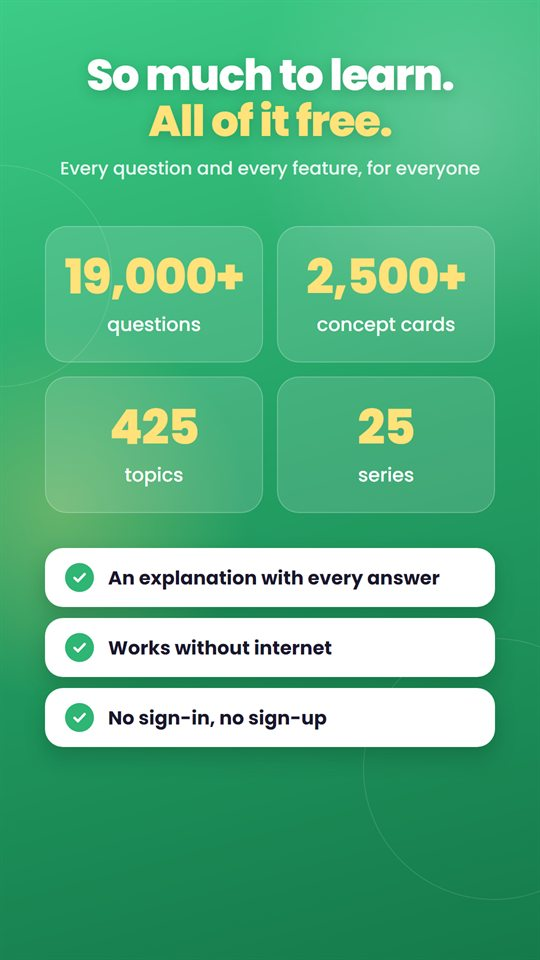
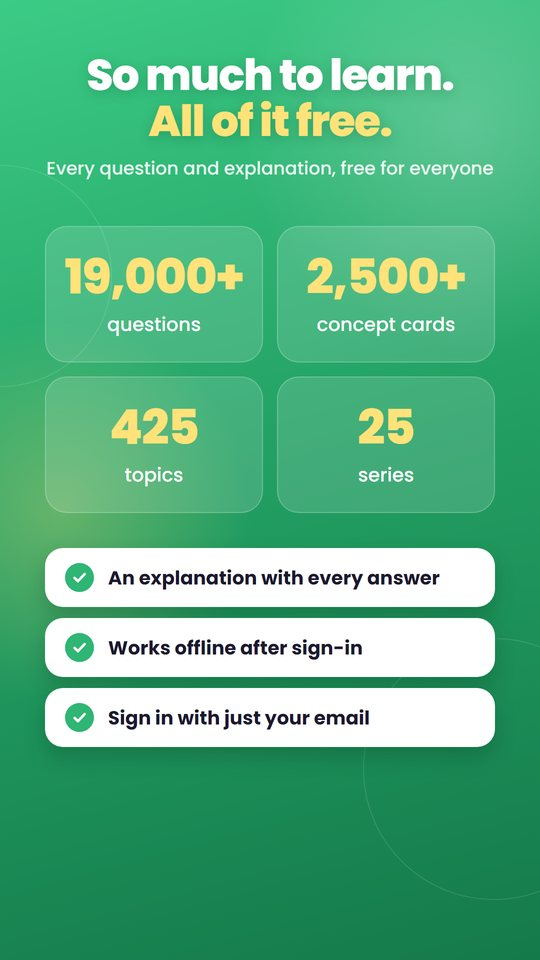
App pages for Irapot and Sky Spark; Quiz Reels page gets the new store shots
- apps/irapot.html: 8 store screenshots, feature graphic, features and Plus from the Play listing.
- apps/sky-spark.html: 7 store screenshots (v2), 500-level feature graphic, closed-test buttons.
- apps/quiz-reels.html: the 12 Nov store screenshots and feature graphic; text now says email
  sign-in, comments and the current Gold perks (it said "no sign-in needed").
- Home: Irapot and Sky Spark cards link to their Details pages.
- site.css: a 7-wide screenshot row.

Changed region(s): [[0.2074, 0.7188, 0.6815, 0.7812], [0.0889, 0.1562, 0.9185, 0.1875], [0.3259, 0.6562, 0.6815, 0.6875]]

diff --git a/apps/quiz-reels.html b/apps/quiz-reels.html
@@ -3,13 +3,13 @@
 <head>
 <meta charset="UTF-8">
 <meta name="viewport" content="width=device-width, initial-scale=1.0, viewport-fit=cover">
-<title>Quiz Reels · NRDDA Tech</title>
-<meta name="description" content="Quiz Reels: learn by swiping. Quick quiz reels with a short explanation for every answer, in Hindi or English, working offline with no sign-in. In closed testing on Google Play.">
+<title>Quiz Reels: Govt Exam &amp; GK · NRDDA Tech</title>
+<meta name="description" content="Quiz Reels: government exam and GK quiz that works like reels. One question per reel with the reason behind every answer, in Hindi or English. In closed testing on Google Play.">
 <meta name="theme-color" content="#ffffff">
 <link rel="canonical" href="https://nrdda.com/apps/quiz-reels.html">
 <link rel="icon" href="../assets/favicon.svg" type="image/svg+xml">
 <meta property="og:type" content="website">
-<meta property="og:title" content="Quiz Reels">
+<meta property="og:title" content="Quiz Reels: Govt Exam &amp; GK">
 <meta property="og:description" content="Swipe. Answer. Learn. One question per reel, with the reason behind every answer.">
 <meta property="og:url" content="https://nrdda.com/apps/quiz-reels.html">
 <meta property="og:image" content="https://nrdda.com/assets/quiz-reels/feature.jpg">
@@ -40,8 +40,8 @@
 <section class="wrap app-hero">
   <div class="hero__copy" style="gap: 22px;">
     <img class="app-hero__icon" src="../assets/apps/quiz-reels.svg" width="104" height="104" alt="Quiz Reels app icon">
-    <h1 class="h1" style="font-size: clamp(38px, 5vw, 64px);">Quiz Reels</h1>
-    <p class="lede">Learn by swiping: quick quiz reels with a short explanation for every answer.</p>
+    <h1 class="h1" style="font-size: clamp(38px, 5vw, 64px);">Quiz Reels: Govt Exam &amp; GK</h1>
+    <p class="lede">Government exam and GK practice that works like reels, with the reason behind every answer.</p>
     <div class="chips" style="padding-top: 0;">
       <span class="chip">Education</span><span class="chip">Android</span><span class="chip">हिंदी &amp; English</span><span class="chip">Works offline</span><span class="chip">Closed testing</span>
     </div>
@@ -59,21 +59,21 @@
     <p class="muted" style="font-size: 15px;">Quiz Reels is in closed testing. Tap <strong>Join the closed test</strong>, accept the invite, then tap <strong>Get it on Google Play</strong>. Not on the list yet? Tap <strong>Ask to join by email</strong> and send your Google Play email; you will be added and can join right after.</p>
     <a href="../privacy/quiz-reels.html" style="font-weight: 600;">Privacy policy</a>
   </div>
-  <img class="art" src="../assets/quiz-reels/feature.jpg" width="1024" height="500" alt="Two phones showing a Hindi quiz reel with the right answer marked and a concept card: Swipe. Answer. Learn.">
+  <img class="art" src="../assets/quiz-reels/feature.jpg" width="1024" height="500" alt="Two phones showing a Hindi quiz reel with the right answer marked and the brain battery: Swipe. Answer. Learn.">
 </section>
 
 <section class="section--soft" aria-label="Screenshots">
   <div class="wrap" style="padding-block: 72px;">
     <div class="shots">
       <div class="shots__row shots__row--8">
-        <img src="../assets/quiz-reels/01.jpg" width="540" height="960" loading="lazy" alt="Swipe. Answer. Learn. One question per reel, with the reason why">
+        <img src="../assets/quiz-reels/01.jpg" width="540" height="960" loading="lazy" alt="Swipe. Answer. Learn. Government exam and GK, one reel at a time">
         <img src="../assets/quiz-reels/02.jpg" width="540" height="960" loading="lazy" alt="19,000+ questions, 2,500+ concept cards, 425 topics, 25 series, all free">
-        <img src="../assets/quiz-reels/03.jpg" width="540" height="960" loading="lazy" alt="Got it wrong? It comes back a few reels later">
-        <img src="../assets/quiz-reels/04.jpg" width="540" height="960" loading="lazy" alt="The idea first, then the questions: short concept cards before every set">
+        <img src="../assets/quiz-reels/03.jpg" width="540" height="960" loading="lazy" alt="Every subject one tap away, or let Reels mix them">
+        <img src="../assets/quiz-reels/04.jpg" width="540" height="960" loading="lazy" alt="Got it wrong? It comes back a few reels later">
         <img src="../assets/quiz-reels/05.jpg" width="540" height="960" loading="lazy" alt="Hindi or English, switch any time in Settings">
-        <img src="../assets/quiz-reels/06.jpg" width="540" height="960" loading="lazy" alt="A full dark mode for late study sessions">
-        <img src="../assets/quiz-reels/07.jpg" width="540" height="960" loading="lazy" alt="Charge your brain daily and watch your week fill up">
-        <img src="../assets/quiz-reels/08.jpg" width="540" height="960" loading="lazy" alt="Playlists for every subject, three levels per topic">
+        <img src="../assets/quiz-reels/06.jpg" width="540" height="960" loading="lazy" alt="Charge your brain daily and keep your streak alive">
+        <img src="../assets/quiz-reels/07.jpg" width="540" height="960" loading="lazy" alt="Playlists for every subject, three levels per topic">
+        <img src="../assets/quiz-reels/08.jpg" width="540" height="960" loading="lazy" alt="Make it yours with Gold: no ads and all 28 characters">
       </div>
     </div>
   </div>
@@ -90,10 +90,12 @@
   <div class="features">
     <div><h3>Swipe like reels</h3><p>Swipe up for the next question, tap your answer and see right away whether you got it.</p></div>
     <div><h3>An explanation every time</h3><p>Every question comes with a short explanation, so you learn the reason and not just the answer.</p></div>
-    <div><h3>Concept cards first</h3><p>Short cards with the idea come before each set, and wrong answers come back a few reels later.</p></div>
+    <div><h3>Pick a subject or mix</h3><p>Choose a subject at the top of Reels, or let the feed mix them. Wrong answers come back a few reels later.</p></div>
     <div><h3>Playlists, easy to hard</h3><p>Go through a subject topic by topic, with three levels in every topic.</p></div>
-    <div><h3>हिंदी or English</h3><p>Use the app in either language and switch any time. Dark mode for late sessions.</p></div>
-    <div><h3>Offline, no sign-in needed</h3><p>Questions are built in and progress is encrypted on your phone. Sign in with your email if you want points on the weekly leaderboard.</p></div>
+    <div><h3>हिंदी or English</h3><p>Made for Hindi medium and English medium students alike. Switch any time, light or dark.</p></div>
+    <div><h3>Comments on every question</h3><p>See what others think, reply and react. Report or block anything unkind.</p></div>
+    <div><h3>A daily habit</h3><p>Charge your brain battery, keep a streak, and climb the leaderboard with your points.</p></div>
+    <div><h3>Sign in with just your email</h3><p>No password, no phone number. Your points and streak come with you to any phone, and reels keep working offline.</p></div>
   </div>
 </section>
 
@@ -102,13 +104,13 @@
     <div>
       <span class="eyebrow">QuizReels Gold</span>
       <h2>Free for everyone, Gold optional</h2>
-      <p>Quiz Reels is free and supported by ads. One purchase, QuizReels Gold, removes them and adds a few extras; no subscription.</p>
+      <p>Every question, explanation and playlist stays free. One purchase, no subscription. Gold bought on a phone also works for the other accounts signed in on that phone.</p>
     </div>
     <ul>
-      <li>Every question and feature stays free</li>
-      <li>A daily streak to keep you going</li>
-      <li>New topics and questions added regularly</li>
-      <li>Gold: no ads, automatic backup, 28 characters and a crown on the leaderboard</li>
+      <li>No ads, anywhere</li>
+      <li>All 28 Gold characters and a crown on the leaderboard</li>
+      <li>Automatic cloud backup of your progress</li>
+      <li>Streak shields without watching an ad</li>
     </ul>
   </div>
 </section>
@@ -116,7 +118,7 @@
 <section style="border-top: 1px solid var(--line);">
   <div class="wrap split" style="padding-block: 56px; gap: 24px 48px;">
     <div><h3 style="font-size: 20px;">Need help?</h3><p style="color: var(--ink-2);">Email <a href="mailto:nrdda.owner@gmail.com?subject=Quiz%20Reels%20support">nrdda.owner@gmail.com</a> with what you did right before it went wrong.</p></div>
-    <div><h3 style="font-size: 20px; margin-bottom: 6px;">Your data</h3><p style="color: var(--ink-2);">No sign-in needed, progress encrypted on your device. Optional email sign-in for points and the leaderboard. Ads by Google AdMob, settings from Firebase. <a href="../privacy/quiz-reels.html">Read the privacy policy</a>.</p></div>
+    <div><h3 style="font-size: 20px; margin-bottom: 6px;">Your data</h3><p style="color: var(--ink-2);">Email sign-in with a one-time code, progress encrypted on your device; points, leaderboard and comments on our own server. Ads by Google AdMob, settings from Firebase. <a href="../privacy/quiz-reels.html">Read the privacy policy</a>.</p></div>
   </div>
 </section>
 

diff --git a/apps/irapot.html b/apps/irapot.html
@@ -1,0 +1,135 @@
+<!DOCTYPE html>
+<html lang="en">
+<head>
+<meta charset="UTF-8">
+<meta name="viewport" content="width=device-width, initial-scale=1.0, viewport-fit=cover">
+<title>Irapot: Expenses &amp; Split Bills · NRDDA Tech</title>
+<meta name="description" content="Irapot: an expense tracker and money manager for your daily spending, with Split for sharing bills with friends, flatmates and family. Budgets, bill reminders and savings goals, in Hindi or English.">
+<meta name="theme-color" content="#ffffff">
+<link rel="canonical" href="https://nrdda.com/apps/irapot.html">
+<link rel="icon" href="../assets/favicon.svg" type="image/svg+xml">
+<meta property="og:type" content="website">
+<meta property="og:title" content="Irapot: Expenses &amp; Split Bills">
+<meta property="og:description" content="Every rupee, in one place. Track daily expenses, set budgets, never miss a bill, split costs with friends.">
+<meta property="og:url" content="https://nrdda.com/apps/irapot.html">
+<meta property="og:image" content="https://nrdda.com/assets/irapot/feature.jpg">
+<link rel="preconnect" href="https://fonts.googleapis.com">
+<link rel="preconnect" href="https://fonts.gstatic.com" crossorigin>
+<link href="https://fonts.googleapis.com/css2?family=Syne:wght@800&family=Bricolage+Grotesque:opsz,wght@12..96,700;12..96,800&family=IBM+Plex+Sans:wght@400;500;600&family=IBM+Plex+Mono:wght@500&display=swap" rel="stylesheet">
+<link rel="stylesheet" href="../assets/site.css">
+</head>
+<body>
+<a class="skip" href="#main">Skip to content</a>
+
+<header class="site-head">
+  <div class="wrap">
+    <a class="wordmark wordmark--sm" href="../index.html" aria-label="NRDDA home">nrdda<span>.</span></a>
+    <nav class="site-nav" aria-label="Main">
+      <a href="../index.html#apps">Apps</a>
+      <a href="../index.html#work">Engineering</a>
+      <a href="../index.html#support">Support</a>
+      <a class="btn btn--ink btn--sm" href="../index.html#contact">Start a project</a>
+    </nav>
+  </div>
+</header>
+
+<main id="main">
+
+<nav class="wrap crumb" aria-label="Breadcrumb"><a href="../index.html#apps">Apps</a> / Irapot</nav>
+
+<section class="wrap app-hero">
+  <div class="hero__copy" style="gap: 22px;">
+    <img class="app-hero__icon" src="../assets/apps/irapot.svg" width="104" height="104" alt="Irapot app icon">
+    <h1 class="h1" style="font-size: clamp(38px, 5vw, 64px);">Irapot: Expenses &amp; Split Bills</h1>
+    <p class="lede">Track daily expenses, set budgets, never miss a bill, and split costs with friends.</p>
+    <div class="chips" style="padding-top: 0;">
+      <span class="chip">Finance</span><span class="chip">Android</span><span class="chip">हिंदी &amp; English</span><span class="chip">Works offline</span><span class="chip">Free, with optional Plus</span>
+    </div>
+    <div class="actions" style="align-items: center; padding-top: 6px;">
+      <a class="btn btn--ink btn--lg" href="https://play.google.com/store/apps/details?id=com.nrdda.irapot">
+        <svg width="20" height="20" viewBox="0 0 24 24" aria-hidden="true"><path d="M5 3.5v17l14-8.5Z" fill="currentColor"></path></svg>
+        Get it on Google Play
+      </a>
+    </div>
+    <p class="muted" style="font-size: 15px;">You write every entry yourself. Irapot never connects to your bank, never reads your SMS and never asks for your card or UPI details.</p>
+    <a href="../privacy/irapot.html" style="font-weight: 600;">Privacy policy</a>
+  </div>
+  <img class="art" src="../assets/irapot/feature.jpg" width="1024" height="500" alt="Irapot the money pot beside three phones showing Home, Insights and a Split trip: Every rupee, in one place.">
+</section>
+
+<section class="section--soft" aria-label="Screenshots">
+  <div class="wrap" style="padding-block: 72px;">
+    <div class="shots">
+      <div class="shots__row shots__row--8">
+        <img src="../assets/irapot/01-home.jpg" width="540" height="960" loading="lazy" alt="Every rupee in one place: your whole month at a glance">
+        <img src="../assets/irapot/02-add.jpg" width="540" height="960" loading="lazy" alt="Write a spend in seconds: amount, category, done">
+        <img src="../assets/irapot/03-insights.jpg" width="540" height="960" loading="lazy" alt="See where your money goes, compared with last month">
+        <img src="../assets/irapot/04-budgets.jpg" width="540" height="960" loading="lazy" alt="Budgets that warn you before you cross the line">
+        <img src="../assets/irapot/05-bills.jpg" width="540" height="960" loading="lazy" alt="Never miss a bill: a reminder before each one">
+        <img src="../assets/irapot/06-split-group.jpg" width="540" height="960" loading="lazy" alt="Split bills with friends and see who pays whom">
+        <img src="../assets/irapot/07-split-ways.jpg" width="540" height="960" loading="lazy" alt="Split it your way: equally, exact, percent or shares">
+        <img src="../assets/irapot/08-language.jpg" width="540" height="960" loading="lazy" alt="The whole app in Hindi or English">
+      </div>
+    </div>
+  </div>
+</section>
+
+<section class="wrap section">
+  <div class="section-head">
+    <div>
+      <span class="eyebrow">What's inside</span>
+      <h2 class="h2" style="font-size: clamp(30px, 3.4vw, 44px);">A money diary for you, and Split for everyone else</h2>
+    </div>
+    <img class="mascot" style="width: clamp(100px, 12vw, 140px);" src="../assets/mascots/irapot.svg" width="460" height="464" alt="Ira the money pot, the Irapot mascot">
+  </div>
+  <div class="features">
+    <div><h3>Daily expenses in seconds</h3><p>Amount, category, account and note on one screen. Cash, bank, card and wallet accounts, each with its own balance.</p></div>
+    <div><h3>Budget planner</h3><p>A budget for the month and for each category, a warning before you cross one, and an early look at this month&rsquo;s pace.</p></div>
+    <div><h3>See where it goes</h3><p>Spending by category compared with last month, your biggest category, and PDF or Excel export.</p></div>
+    <div><h3>Never miss a bill</h3><p>Bills with due dates and a reminder before each one, plus a daily nudge to write the day&rsquo;s spends.</p></div>
+    <div><h3>Split bills with friends</h3><p>Groups for a trip, a flat or the house. Friends join with a link, QR or code; split equally, by exact amounts, shares or percent.</p></div>
+    <div><h3>Save more</h3><p>Savings goals, a weekly challenge and no-spend days, with a streak to keep.</p></div>
+    <div><h3>Private and safe</h3><p>Your diary is encrypted on your phone, with a fingerprint or face lock. Sign in with your email and a one-time code.</p></div>
+    <div><h3>Hindi and English</h3><p>The whole app in Hindi or English, light or dark. Works without internet and catches up when you are back online.</p></div>
+  </div>
+</section>
+
+<section class="wrap" style="padding-bottom: 96px;">
+  <div class="plus">
+    <div>
+      <span class="eyebrow">Irapot Plus</span>
+      <h2>Free, or Plus once</h2>
+      <p>Irapot is free with ads; each new entry uses a few coins you get when you join and can earn every day. Plus is a one-time payment, not a subscription.</p>
+    </div>
+    <ul>
+      <li>No coins and no ads</li>
+      <li>Repeating entries for rent, fees and fixed costs</li>
+      <li>Read bills and UPI screenshots to fill in an entry</li>
+      <li>Receipt photos, backed up to your account</li>
+      <li>Year view, compare months and a repeat-payment finder</li>
+      <li>Comments and reactions in Split</li>
+    </ul>
+  </div>
+</section>
+
+<section style="border-top: 1px solid var(--line);">
+  <div class="wrap split" style="padding-block: 56px; gap: 24px 48px;">
+    <div><h3 style="font-size: 20px;">Need help?</h3><p style="color: var(--ink-2);">Email <a href="mailto:nrdda.owner@gmail.com?subject=Irapot%20support">nrdda.owner@gmail.com</a> with what you did right before it went wrong.</p></div>
+    <div><h3 style="font-size: 20px; margin-bottom: 6px;">Your data</h3><p style="color: var(--ink-2);">Email sign-in with a one-time code. Your money diary is encrypted on your phone and kept on our own server so it comes back on a new phone; Split groups are shared only with their members. Ads by Google AdMob. <a href="../privacy/irapot.html">Read the privacy policy</a>.</p></div>
+  </div>
+</section>
+
+</main>
+
+<footer class="site-foot" style="border-top: 1px solid var(--line);">
+  <div class="wrap">
+    <a class="wordmark" href="../index.html" style="font-size: 22px;" aria-label="NRDDA home">nrdda<span>.</span></a>
+    <nav aria-label="Footer">
+      <a href="../index.html#apps">All apps</a>
+      <a href="../privacy/index.html">Privacy</a>
+    </nav>
+    <span class="legal">© 2026 NRDDA Tech</span>
+  </div>
+</footer>
+</body>
+</html>

diff --git a/apps/sky-spark.html b/apps/sky-spark.html
@@ -1,0 +1,134 @@
+<!DOCTYPE html>
+<html lang="en">
+<head>
+<meta charset="UTF-8">
+<meta name="viewport" content="width=device-width, initial-scale=1.0, viewport-fit=cover">
+<title>Sky Spark: Fireworks Puzzle · NRDDA Tech</title>
+<meta name="description" content="Sky Spark: light the launchers, chain the bursts, clear the festival sky. 500 fireworks puzzles across 20 Indian festival worlds, a new Daily Show every day, offline and with no timers. In closed testing on Google Play.">
+<meta name="theme-color" content="#ffffff">
+<link rel="canonical" href="https://nrdda.com/apps/sky-spark.html">
+<link rel="icon" href="../assets/favicon.svg" type="image/svg+xml">
+<meta property="og:type" content="website">
+<meta property="og:title" content="Sky Spark: Fireworks Puzzle">
+<meta property="og:description" content="Light the launchers, chain the bursts, clear the festival sky. 500 levels, 20 festivals.">
+<meta property="og:url" content="https://nrdda.com/apps/sky-spark.html">
+<meta property="og:image" content="https://nrdda.com/assets/sky-spark/feature.jpg">
+<link rel="preconnect" href="https://fonts.googleapis.com">
+<link rel="preconnect" href="https://fonts.gstatic.com" crossorigin>
+<link href="https://fonts.googleapis.com/css2?family=Syne:wght@800&family=Bricolage+Grotesque:opsz,wght@12..96,700;12..96,800&family=IBM+Plex+Sans:wght@400;500;600&family=IBM+Plex+Mono:wght@500&display=swap" rel="stylesheet">
+<link rel="stylesheet" href="../assets/site.css">
+</head>
+<body>
+<a class="skip" href="#main">Skip to content</a>
+
+<header class="site-head">
+  <div class="wrap">
+    <a class="wordmark wordmark--sm" href="../index.html" aria-label="NRDDA home">nrdda<span>.</span></a>
+    <nav class="site-nav" aria-label="Main">
+      <a href="../index.html#apps">Apps</a>
+      <a href="../index.html#work">Engineering</a>
+      <a href="../index.html#support">Support</a>
+      <a class="btn btn--ink btn--sm" href="../index.html#contact">Start a project</a>
+    </nav>
+  </div>
+</header>
+
+<main id="main">
+
+<nav class="wrap crumb" aria-label="Breadcrumb"><a href="../index.html#apps">Apps</a> / Sky Spark</nav>
+
+<section class="wrap app-hero">
+  <div class="hero__copy" style="gap: 22px;">
+    <img class="app-hero__icon" src="../assets/apps/sky-spark.png" width="104" height="104" alt="Sky Spark app icon">
+    <h1 class="h1" style="font-size: clamp(38px, 5vw, 64px);">Sky Spark: Fireworks Puzzle</h1>
+    <p class="lede">Light the launchers, chain the bursts, clear the festival sky.</p>
+    <div class="chips" style="padding-top: 0;">
+      <span class="chip">Puzzle</span><span class="chip">Android</span><span class="chip">Plays offline</span><span class="chip">Free, with optional Plus</span><span class="chip">Closed testing</span>
+    </div>
+    <div class="actions" style="align-items: center; padding-top: 6px;">
+      <a class="btn btn--green btn--lg" href="https://play.google.com/apps/testing/com.nrdda.skyspark">Join the closed test</a>
+      <a class="btn btn--ink btn--lg" href="https://play.google.com/store/apps/details?id=com.nrdda.skyspark">
+        <svg width="20" height="20" viewBox="0 0 24 24" aria-hidden="true"><path d="M5 3.5v17l14-8.5Z" fill="currentColor"></path></svg>
+        Get it on Google Play
+      </a>
+      <a class="btn btn--line btn--lg" href="mailto:nrdda.owner@gmail.com?subject=Sky%20Spark%20closed%20test&amp;body=Hi%2C%20please%20add%20me%20to%20the%20Sky%20Spark%20closed%20test.%0A%0AMy%20Google%20Play%20email%3A%20">
+        <svg width="20" height="20" viewBox="0 0 24 24" aria-hidden="true"><path d="M3 6.5A1.5 1.5 0 0 1 4.5 5h15A1.5 1.5 0 0 1 21 6.5v11a1.5 1.5 0 0 1-1.5 1.5h-15A1.5 1.5 0 0 1 3 17.5Zm2 .9V17h14V7.4l-7 5.1Z" fill="currentColor"></path></svg>
+        Ask to join by email
+      </a>
+    </div>
+    <p class="muted" style="font-size: 15px;">Sky Spark is in closed testing. Tap <strong>Join the closed test</strong>, accept the invite, then tap <strong>Get it on Google Play</strong>. Not on the list yet? Tap <strong>Ask to join by email</strong> and send your Google Play email; you will be added and can join right after.</p>
+    <a href="../privacy/sky-spark.html" style="font-weight: 600;">Privacy policy</a>
+  </div>
+  <img class="art" src="../assets/sky-spark/feature.jpg" width="1024" height="500" alt="Chingari the little spark smiling over festival rooftops, with launchers firing: Sky Spark, Fireworks Puzzle, 500 levels">
+</section>
+
+<section class="section--soft" aria-label="Screenshots">
+  <div class="wrap" style="padding-block: 72px;">
+    <div class="shots">
+      <div class="shots__row shots__row--7">
+        <img src="../assets/sky-spark/01.jpg" width="540" height="960" loading="lazy" alt="Meet Chingari, your little spark for India&rsquo;s festival skies">
+        <img src="../assets/sky-spark/02.jpg" width="540" height="960" loading="lazy" alt="Light the launchers: one matchstick, one rocket">
+        <img src="../assets/sky-spark/03.jpg" width="540" height="960" loading="lazy" alt="Watch it chain: bursts light their neighbours, sparks fall down">
+        <img src="../assets/sky-spark/04.jpg" width="540" height="960" loading="lazy" alt="20 festival pieces: rain clouds, chakris, anaars, ladis and more">
+        <img src="../assets/sky-spark/05.jpg" width="540" height="960" loading="lazy" alt="A new Daily Show every day, the same board for everyone">
+        <img src="../assets/sky-spark/06.jpg" width="540" height="960" loading="lazy" alt="50 badges to earn for streaks, long chains and festivals">
+        <img src="../assets/sky-spark/07.jpg" width="540" height="960" loading="lazy" alt="500 levels across 20 festivals, from Jaipur to Ayodhya">
+      </div>
+    </div>
+  </div>
+</section>
+
+<section class="wrap section">
+  <div class="section-head">
+    <div>
+      <span class="eyebrow">What's inside</span>
+      <h2 class="h2" style="font-size: clamp(30px, 3.4vw, 44px);">Fireworks puzzles over India&rsquo;s festival skies</h2>
+    </div>
+  </div>
+  <div class="features">
+    <div><h3>Easy to start</h3><p>Three simple rules, no timers, and the shells never move. Every board has exactly one winning set of launchers.</p></div>
+    <div><h3>20 festival worlds</h3><p>Diwali in Jaipur, the monsoon in Mumbai, Durga Puja in Kolkata, Deepotsav in Ayodhya and more, each with its own sky.</p></div>
+    <div><h3>20 firework pieces</h3><p>Rain clouds that put out fire, star shells, chakris, anaars, ladis and more, each with its own rule.</p></div>
+    <div><h3>500 hand-checked levels</h3><p>Every level is solved by computer to make sure it has one answer and needs every matchstick you get.</p></div>
+    <div><h3>A Daily Show</h3><p>The same board for everyone each day: fewest matchsticks wins. Keep your streak and climb the leaders.</p></div>
+    <div><h3>Peek and undo</h3><p>Stuck? Peek shows a launcher&rsquo;s whole chain before you fire, and Undo takes back your last matchstick.</p></div>
+  </div>
+</section>
+
+<section class="wrap" style="padding-bottom: 96px;">
+  <div class="plus">
+    <div>
+      <span class="eyebrow">Sky Spark Plus</span>
+      <h2>One payment, yours forever</h2>
+      <p>Sky Spark is free with ads. Plus is a one-time purchase that restores with your Google Play account.</p>
+    </div>
+    <ul>
+      <li>No banner ads</li>
+      <li>No ads between levels</li>
+      <li>Cloud save for your progress</li>
+      <li>Every level and world stays free for everyone</li>
+    </ul>
+  </div>
+</section>
+
+<section style="border-top: 1px solid var(--line);">
+  <div class="wrap split" style="padding-block: 56px; gap: 24px 48px;">
+    <div><h3 style="font-size: 20px;">Need help?</h3><p style="color: var(--ink-2);">Email <a href="mailto:nrdda.owner@gmail.com?subject=Sky%20Spark%20support">nrdda.owner@gmail.com</a> with what you did right before it went wrong.</p></div>
+    <div><h3 style="font-size: 20px; margin-bottom: 6px;">Your data</h3><p style="color: var(--ink-2);">No account needed, progress on your phone. Saving with email is optional. Ads by Google AdMob; purchases checked on our own server. No analytics. <a href="../privacy/sky-spark.html">Read the privacy policy</a>.</p></div>
+  </div>
+</section>
+
+</main>
+
+<footer class="site-foot" style="border-top: 1px solid var(--line);">
+  <div class="wrap">
+    <a class="wordmark" href="../index.html" style="font-size: 22px;" aria-label="NRDDA home">nrdda<span>.</span></a>
+    <nav aria-label="Footer">
+      <a href="../index.html#apps">All apps</a>
+      <a href="../privacy/index.html">Privacy</a>
+    </nav>
+    <span class="legal">© 2026 NRDDA Tech</span>
+  </div>
+</footer>
+</body>
+</html>

diff --git a/index.html b/index.html
@@ -113,7 +113,7 @@
       <div class="app__links">
         <a class="btn btn--green btn--sm" href="https://play.google.com/apps/testing/com.nrdda.skyspark">Join the closed test</a>
         <a class="btn btn--ink btn--sm" href="https://play.google.com/store/apps/details?id=com.nrdda.skyspark">Get it on Google Play</a>
-        <a href="privacy/sky-spark.html">Privacy</a>
+        <a href="apps/sky-spark.html">Details</a>
       </div>
     </article>
 
@@ -125,7 +125,7 @@
       <p>A money diary for your own spending, and Split for sharing costs with friends and family. Fast entry, bills read on your phone, budgets and goals. Works with no signal and comes back on any phone with your email.</p>
       <div class="app__links">
         <a class="btn btn--ink btn--sm" href="https://play.google.com/store/apps/details?id=com.nrdda.irapot">Get it on Google Play</a>
-        <a href="privacy/irapot.html">Privacy</a>
+        <a href="apps/irapot.html">Details</a>
       </div>
     </article>
 

diff --git a/assets/site.css b/assets/site.css
@@ -145,6 +145,7 @@ p { margin: 0; }
 .shots__row { display: grid; grid-template-columns: repeat(4, minmax(200px, 1fr)); gap: 20px; min-width: 860px; }
 .shots__row > * { scroll-snap-align: start; }
 .shots__row--8 { grid-template-columns: repeat(8, minmax(200px, 1fr)); min-width: 1740px; }
+.shots__row--7 { grid-template-columns: repeat(7, minmax(200px, 1fr)); min-width: 1520px; }
 .shots img { width: 100%; aspect-ratio: 9 / 16; object-fit: cover; border-radius: 18px; border: 1px solid var(--line); background: #fff; }
 .features { display: grid; grid-template-columns: repeat(auto-fit, minmax(min(100%, 320px), 1fr)); gap: 0 40px; }
 .features > div { border-top: 1px solid var(--line); padding: 22px 0; }
